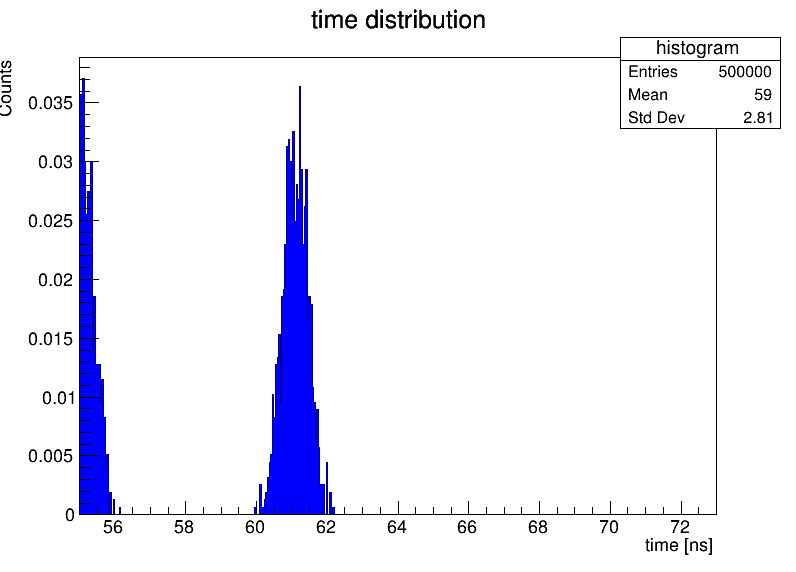
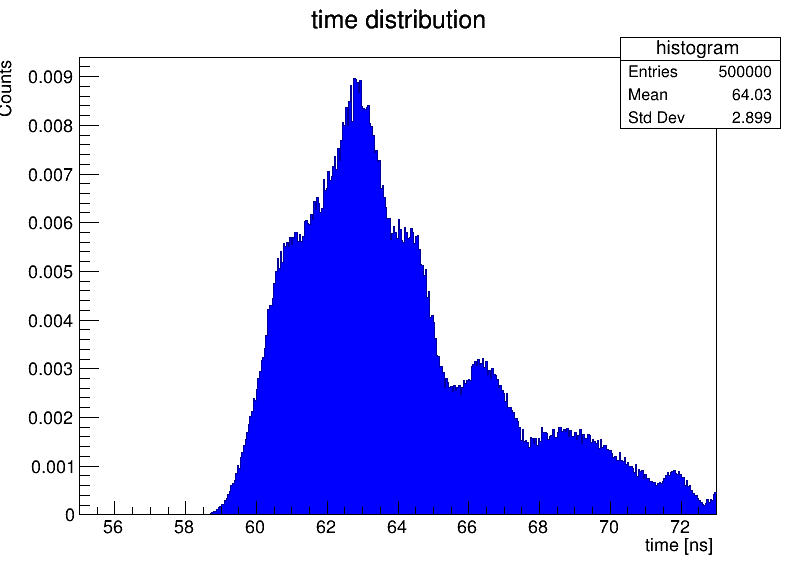
new commit

Changed region(s): [[0.2714, 0.1486, 0.9045, 0.9213], [0.0302, 0.1189, 0.1508, 0.9213], [0.9045, 0.1486, 0.9648, 0.2378]]

diff --git a/time_distribution.C b/time_distribution.C
@@ -42,9 +42,8 @@ int main() {
 	
   // Creazione di gaussiane solo per gli eventi selezionati in modo casuale
   double sigma =0.35;
-  double min_value = *std::min_element(time.begin(), time.end());
   for (int i = 0; i < numEventsToSelect; ++i) {
-    double mean = time[i]-min_value;
+    double mean = time[i];
     for (int j = 0; j < 1000; ++j) {
       histogram->Fill(generateGaussian(mean, sigma, g));
     }
